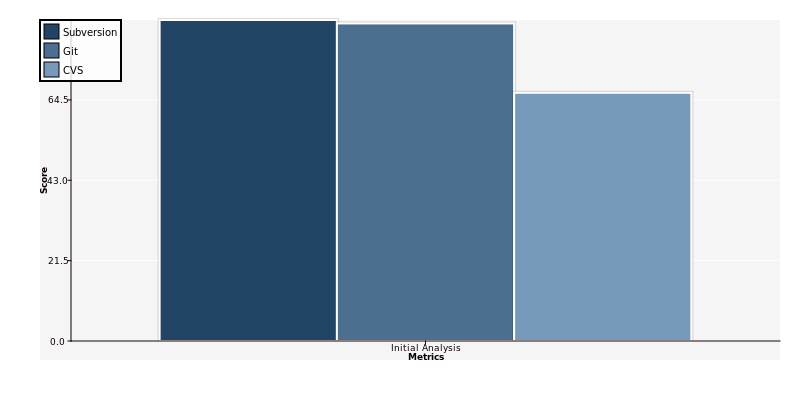
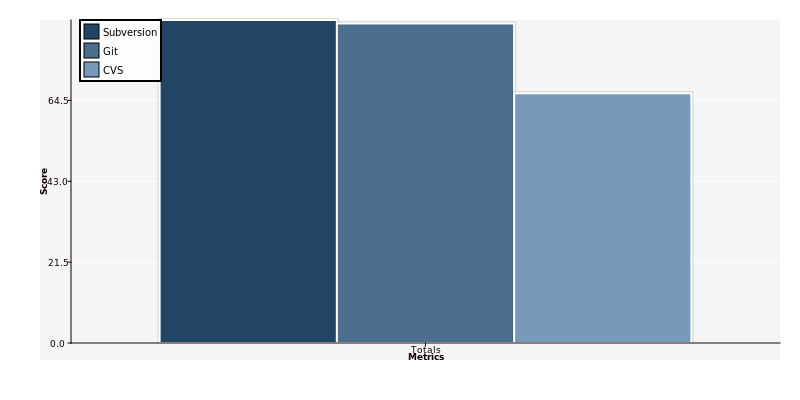
Render vertical graphs for total punctuation.

diff --git a/final_report/libcsvanaly2/script_sample/scm-metrics-charts.py b/final_report/libcsvanaly2/script_sample/scm-metrics-charts.py
@@ -26,7 +26,13 @@ def optionsAndMetrics():
     metric_list = ('Initial Analysis', 'Functionality', 'Usability', 'Robustness', 'Development', 'Community', 'Documentation')
 
     options = {
-        'legend': {'hide': False},
+        'legend': {
+            'hide': False,
+            'position': {
+                'top': 20,
+                'left': 80,
+            },
+        },
         'colorScheme': {
             'name': 'gradient',
             'args': {
@@ -101,6 +107,8 @@ def renderTotalsGraph():
 
     options = optionsAndMetrics()
 
+    options['axis']['x']['ticks'] = [dict(v=0, label='Totals')]
+
     verticalChart('metrics-total-over100-chart.png', scm_over_100, options)
 
 
@@ -157,5 +165,5 @@ if __name__ == '__main__':
     else:
         output = 'metrics-linechart.png'
 
-    renderMetricsWeight()
+    renderTotalsGraph()
 
